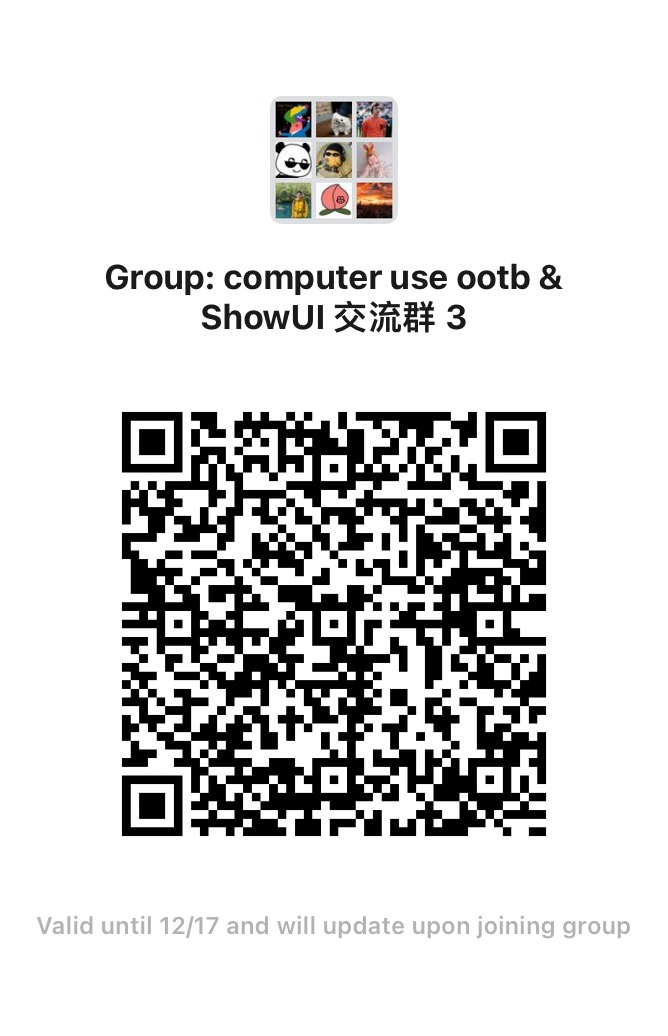
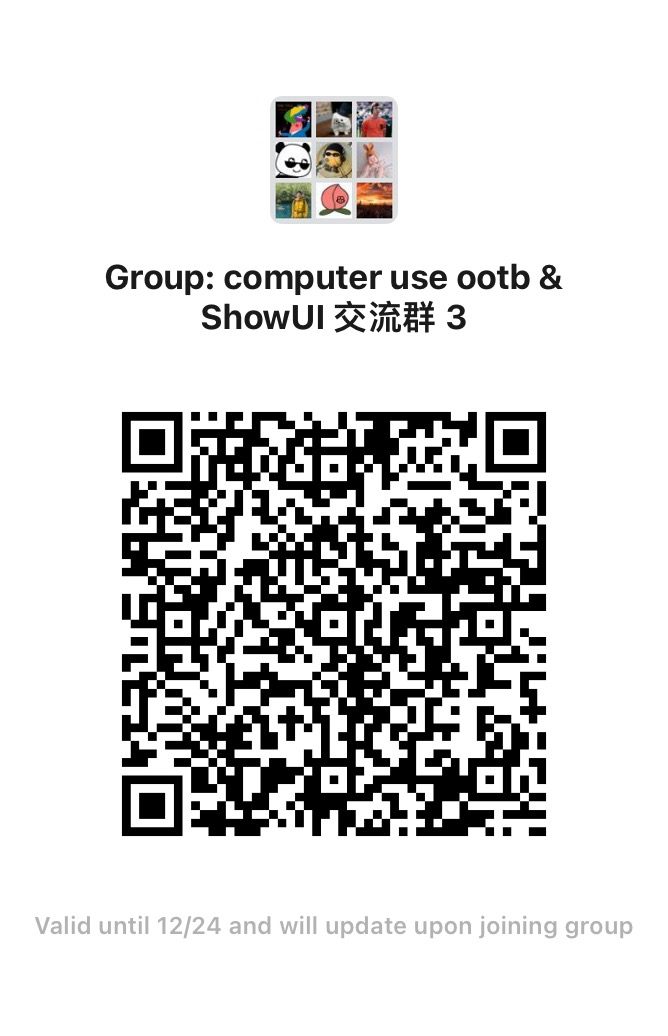
update group invitation

diff --git a/README.md b/README.md
@@ -168,7 +168,7 @@ Welcome to discuss with us and continuously improve the user experience of Compu
 
 <div style="display: flex; flex-direction: row; justify-content: space-around;">
 
-<img src="./assets/wechat_2.jpg" alt="gradio_interface" width="30%">
+<!-- <img src="./assets/wechat_2.jpg" alt="gradio_interface" width="30%"> -->
 <img src="./assets/wechat_3.jpg" alt="gradio_interface" width="30%">
 
 </div>
